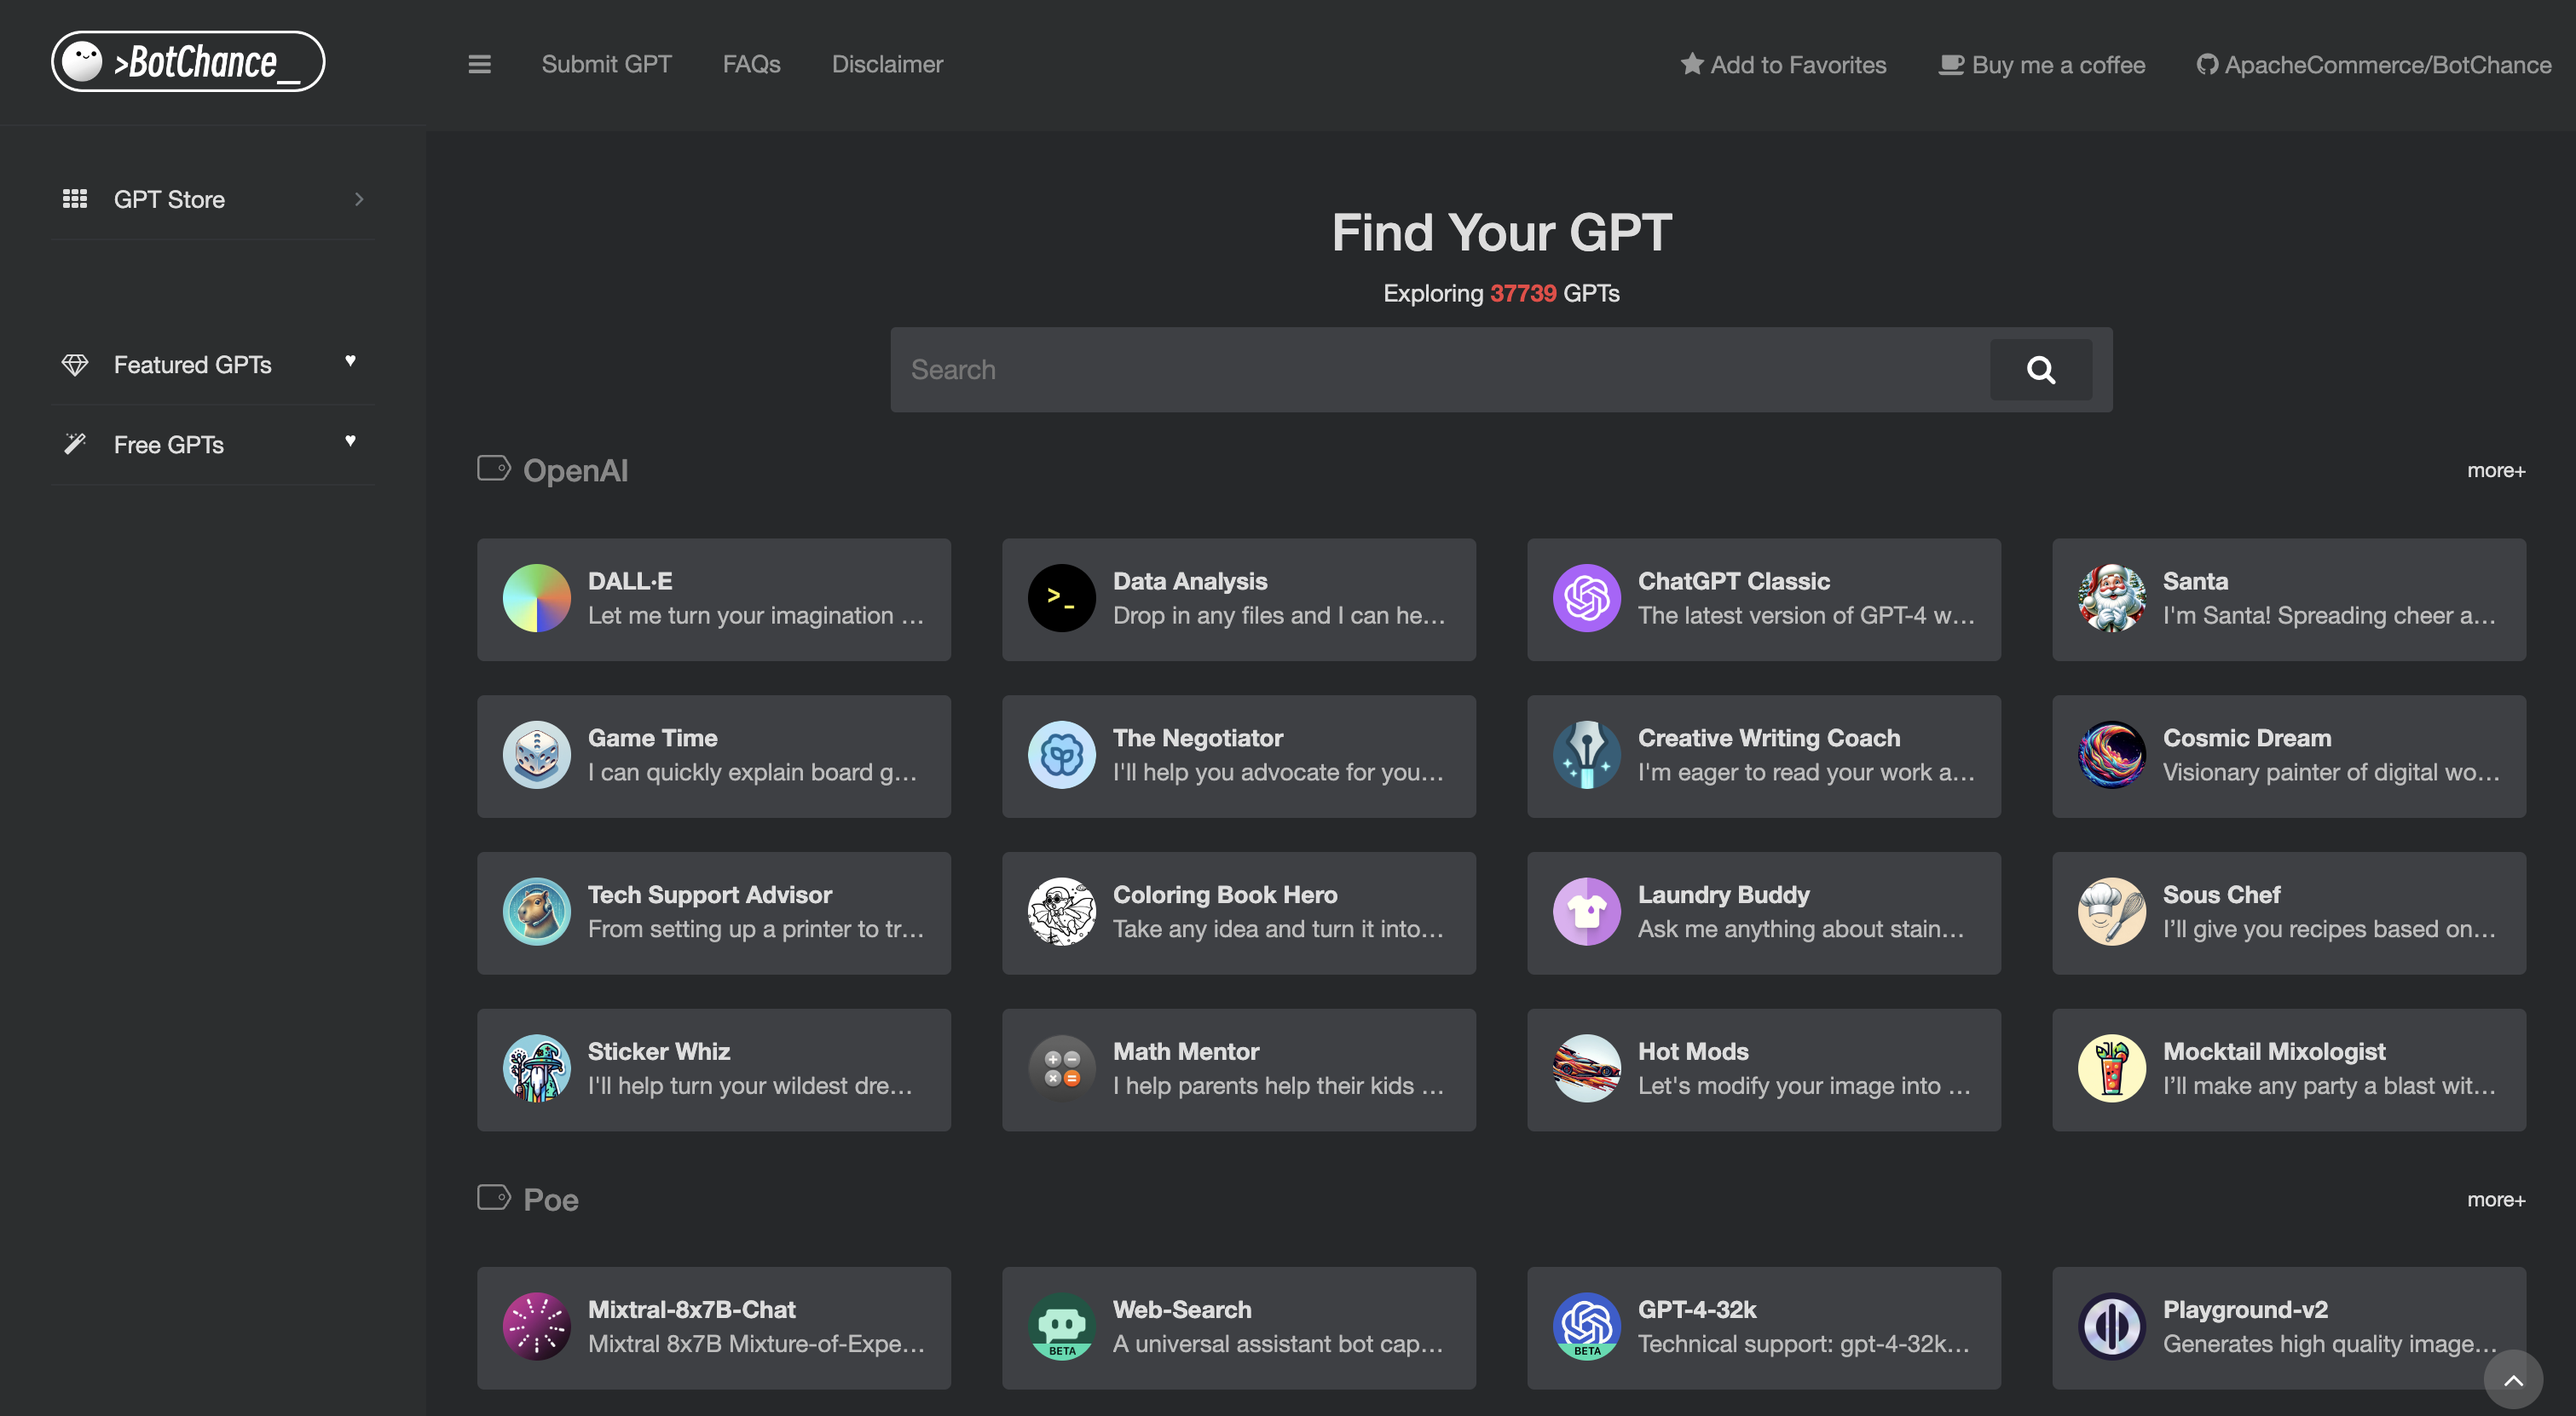
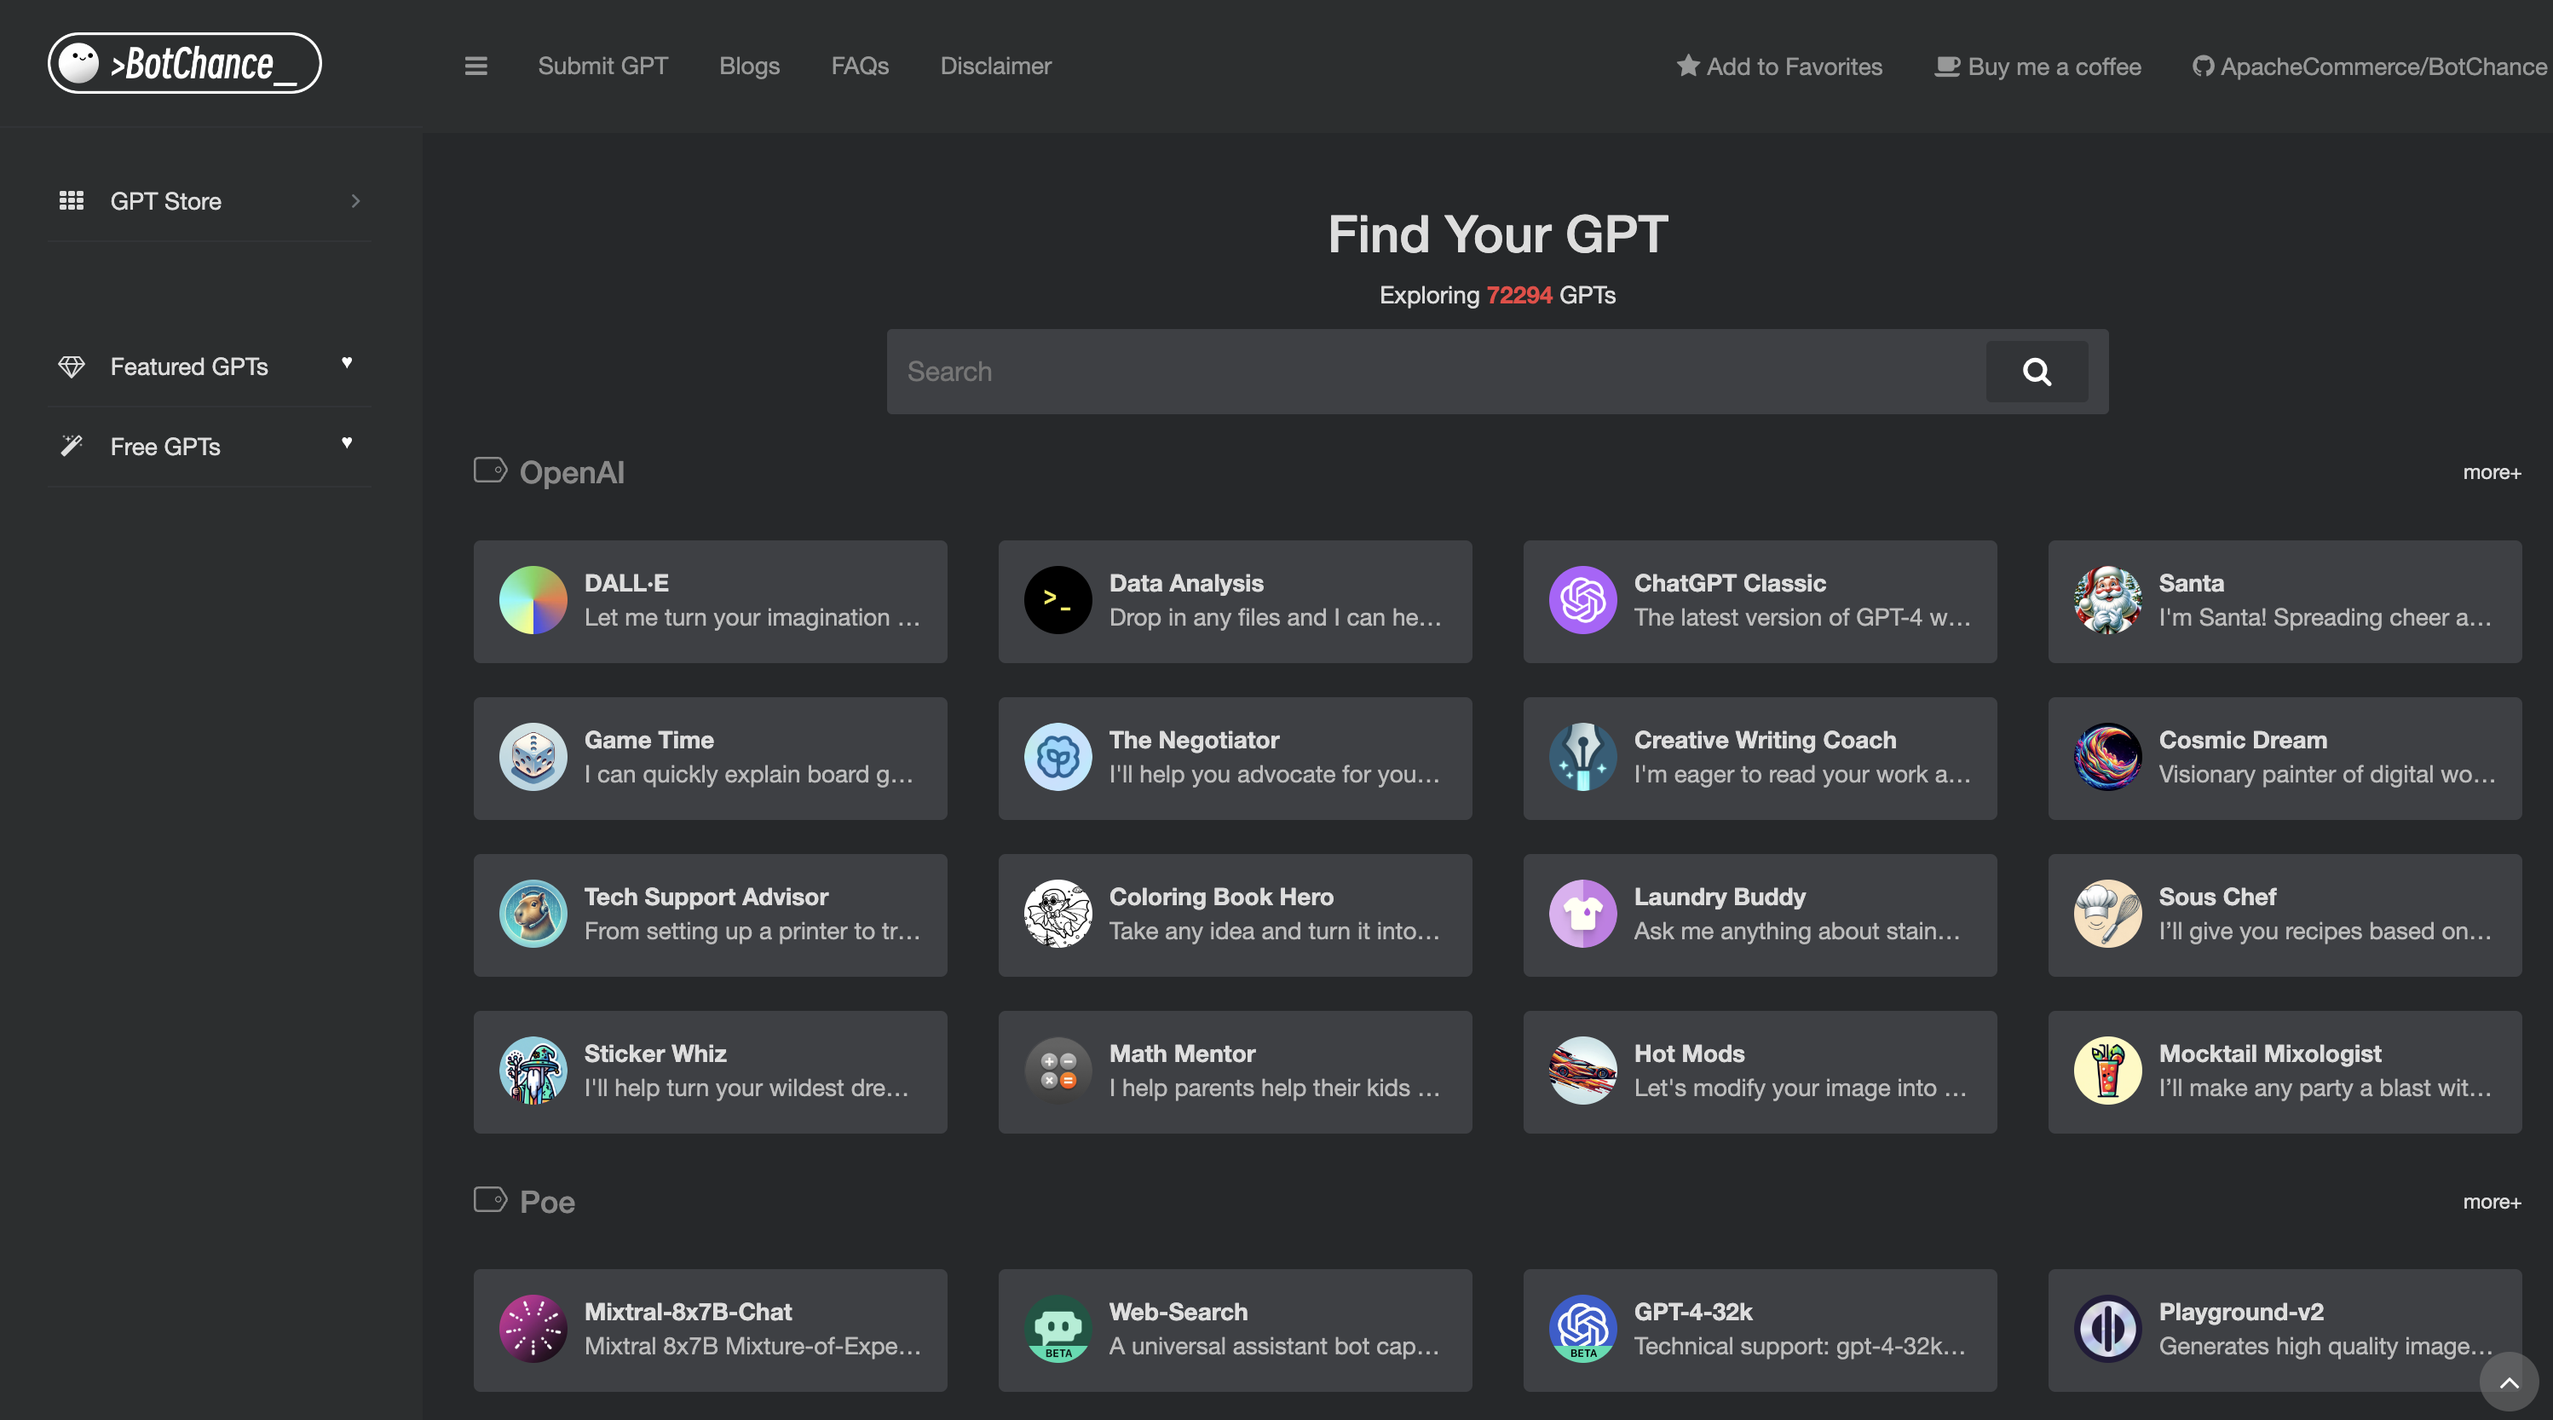
add 34,554 new GPTs

diff --git a/README.md b/README.md
@@ -3,6 +3,10 @@
 </p>
 <h1 align="center">The Leading Third-Party GPT Store</h1>
 
+## Updates
+23/12/2023: Added 34,554 new GPTs by OpenAI, totaling 72,294.
+15/12/2023: Initiated all GPTs, totaling 37,739.
+
 ## Welcome
 
 BotChance is a leading third-party GPT store, featuring a compilation of OpenAI, CharacterAI, and POE GPT Agents.
